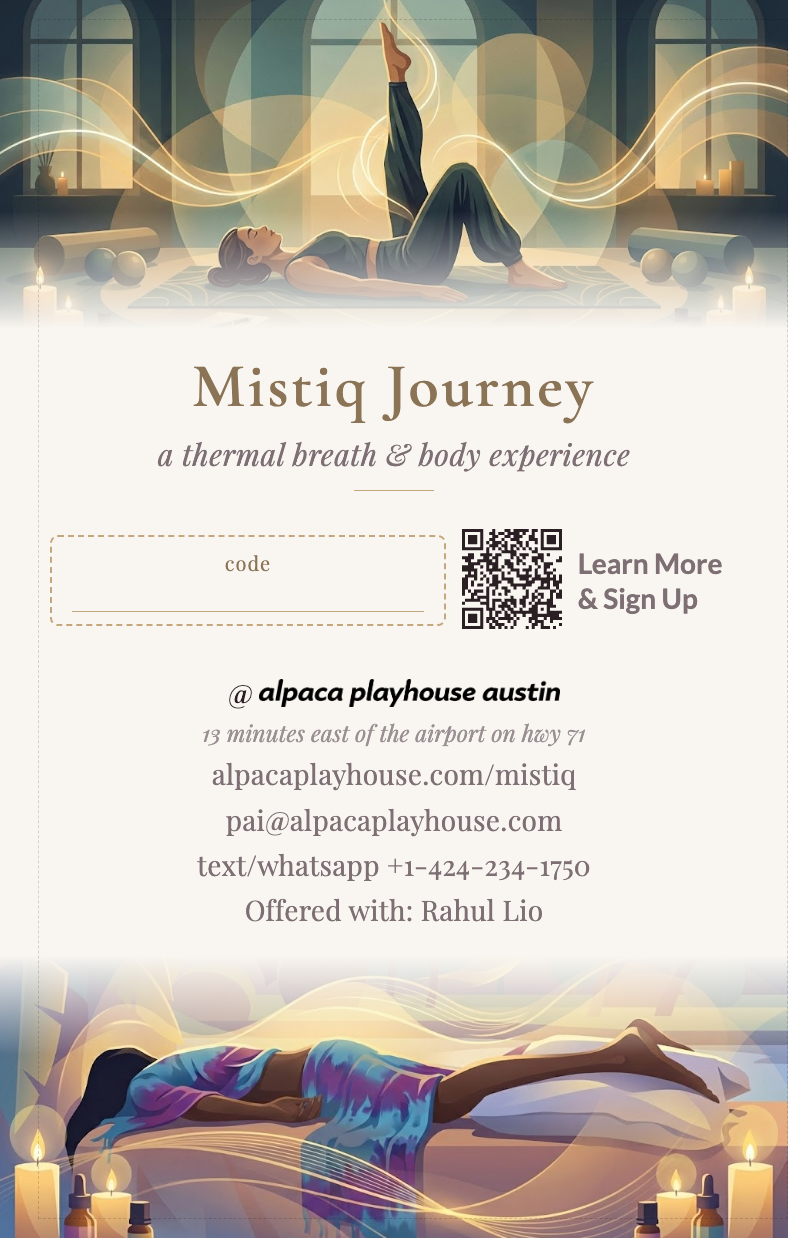
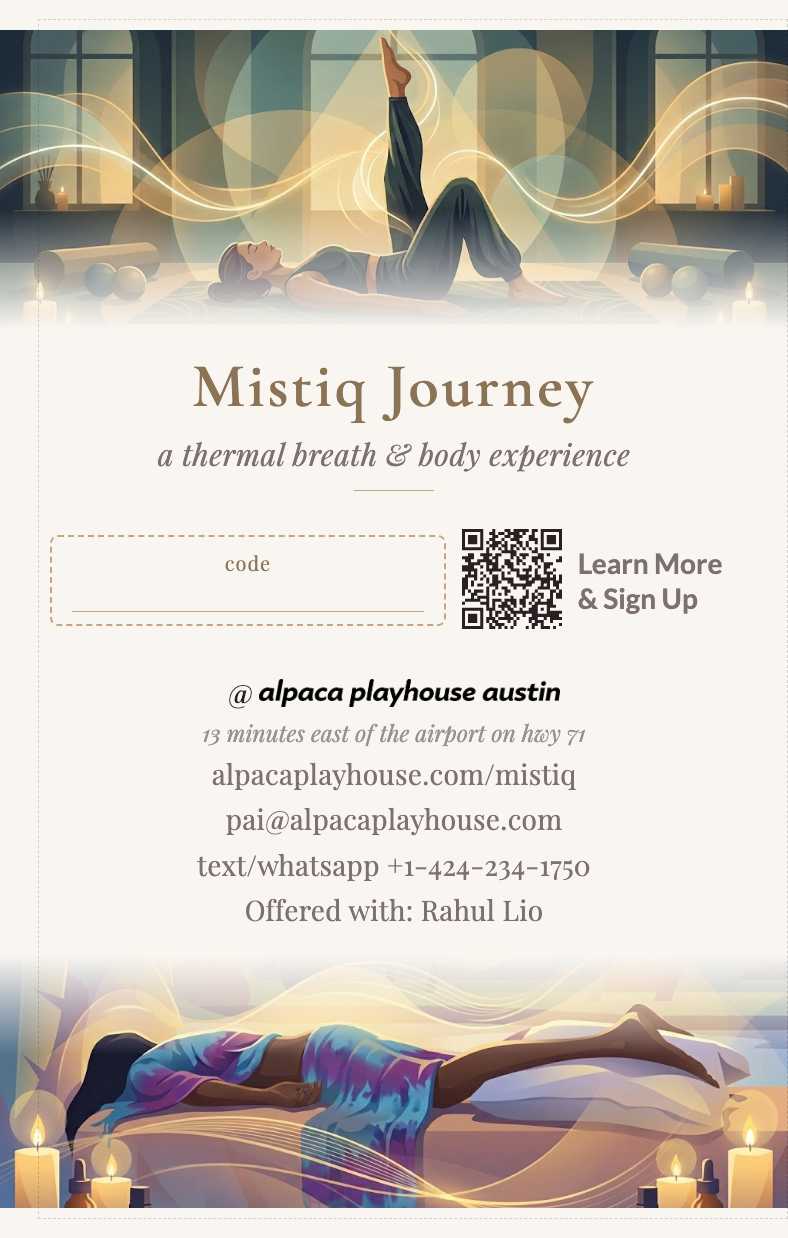
Shift front card images inward to keep content in safe print zone
- Top hero: +30px margin-top, height 350→320px
- Bottom image: +30px margin-bottom, height 300→270px
- Prevents subject content from being cut in bleed zone

diff --git a/mistiq/business-card.html b/mistiq/business-card.html
@@ -101,7 +101,8 @@
 
     /* ===== FRONT SIDE ===== */
     .card-hero {
-      height: 350px;
+      height: 320px;
+      margin-top: 30px;
       background-image: url('https://aphrrfprbixmhissnjfn.supabase.co/storage/v1/object/public/mistiq-assets/windingdown.jpg');
       background-size: cover;
       background-position: center;
@@ -267,8 +268,9 @@
 
     .card-bottom-image {
       margin-top: auto;
+      margin-bottom: 30px;
       width: 100%;
-      height: 300px;
+      height: 270px;
       background-image: url('https://aphrrfprbixmhissnjfn.supabase.co/storage/v1/object/public/mistiq-assets/trancemode.jpg');
       background-size: cover;
       background-position: center center;
